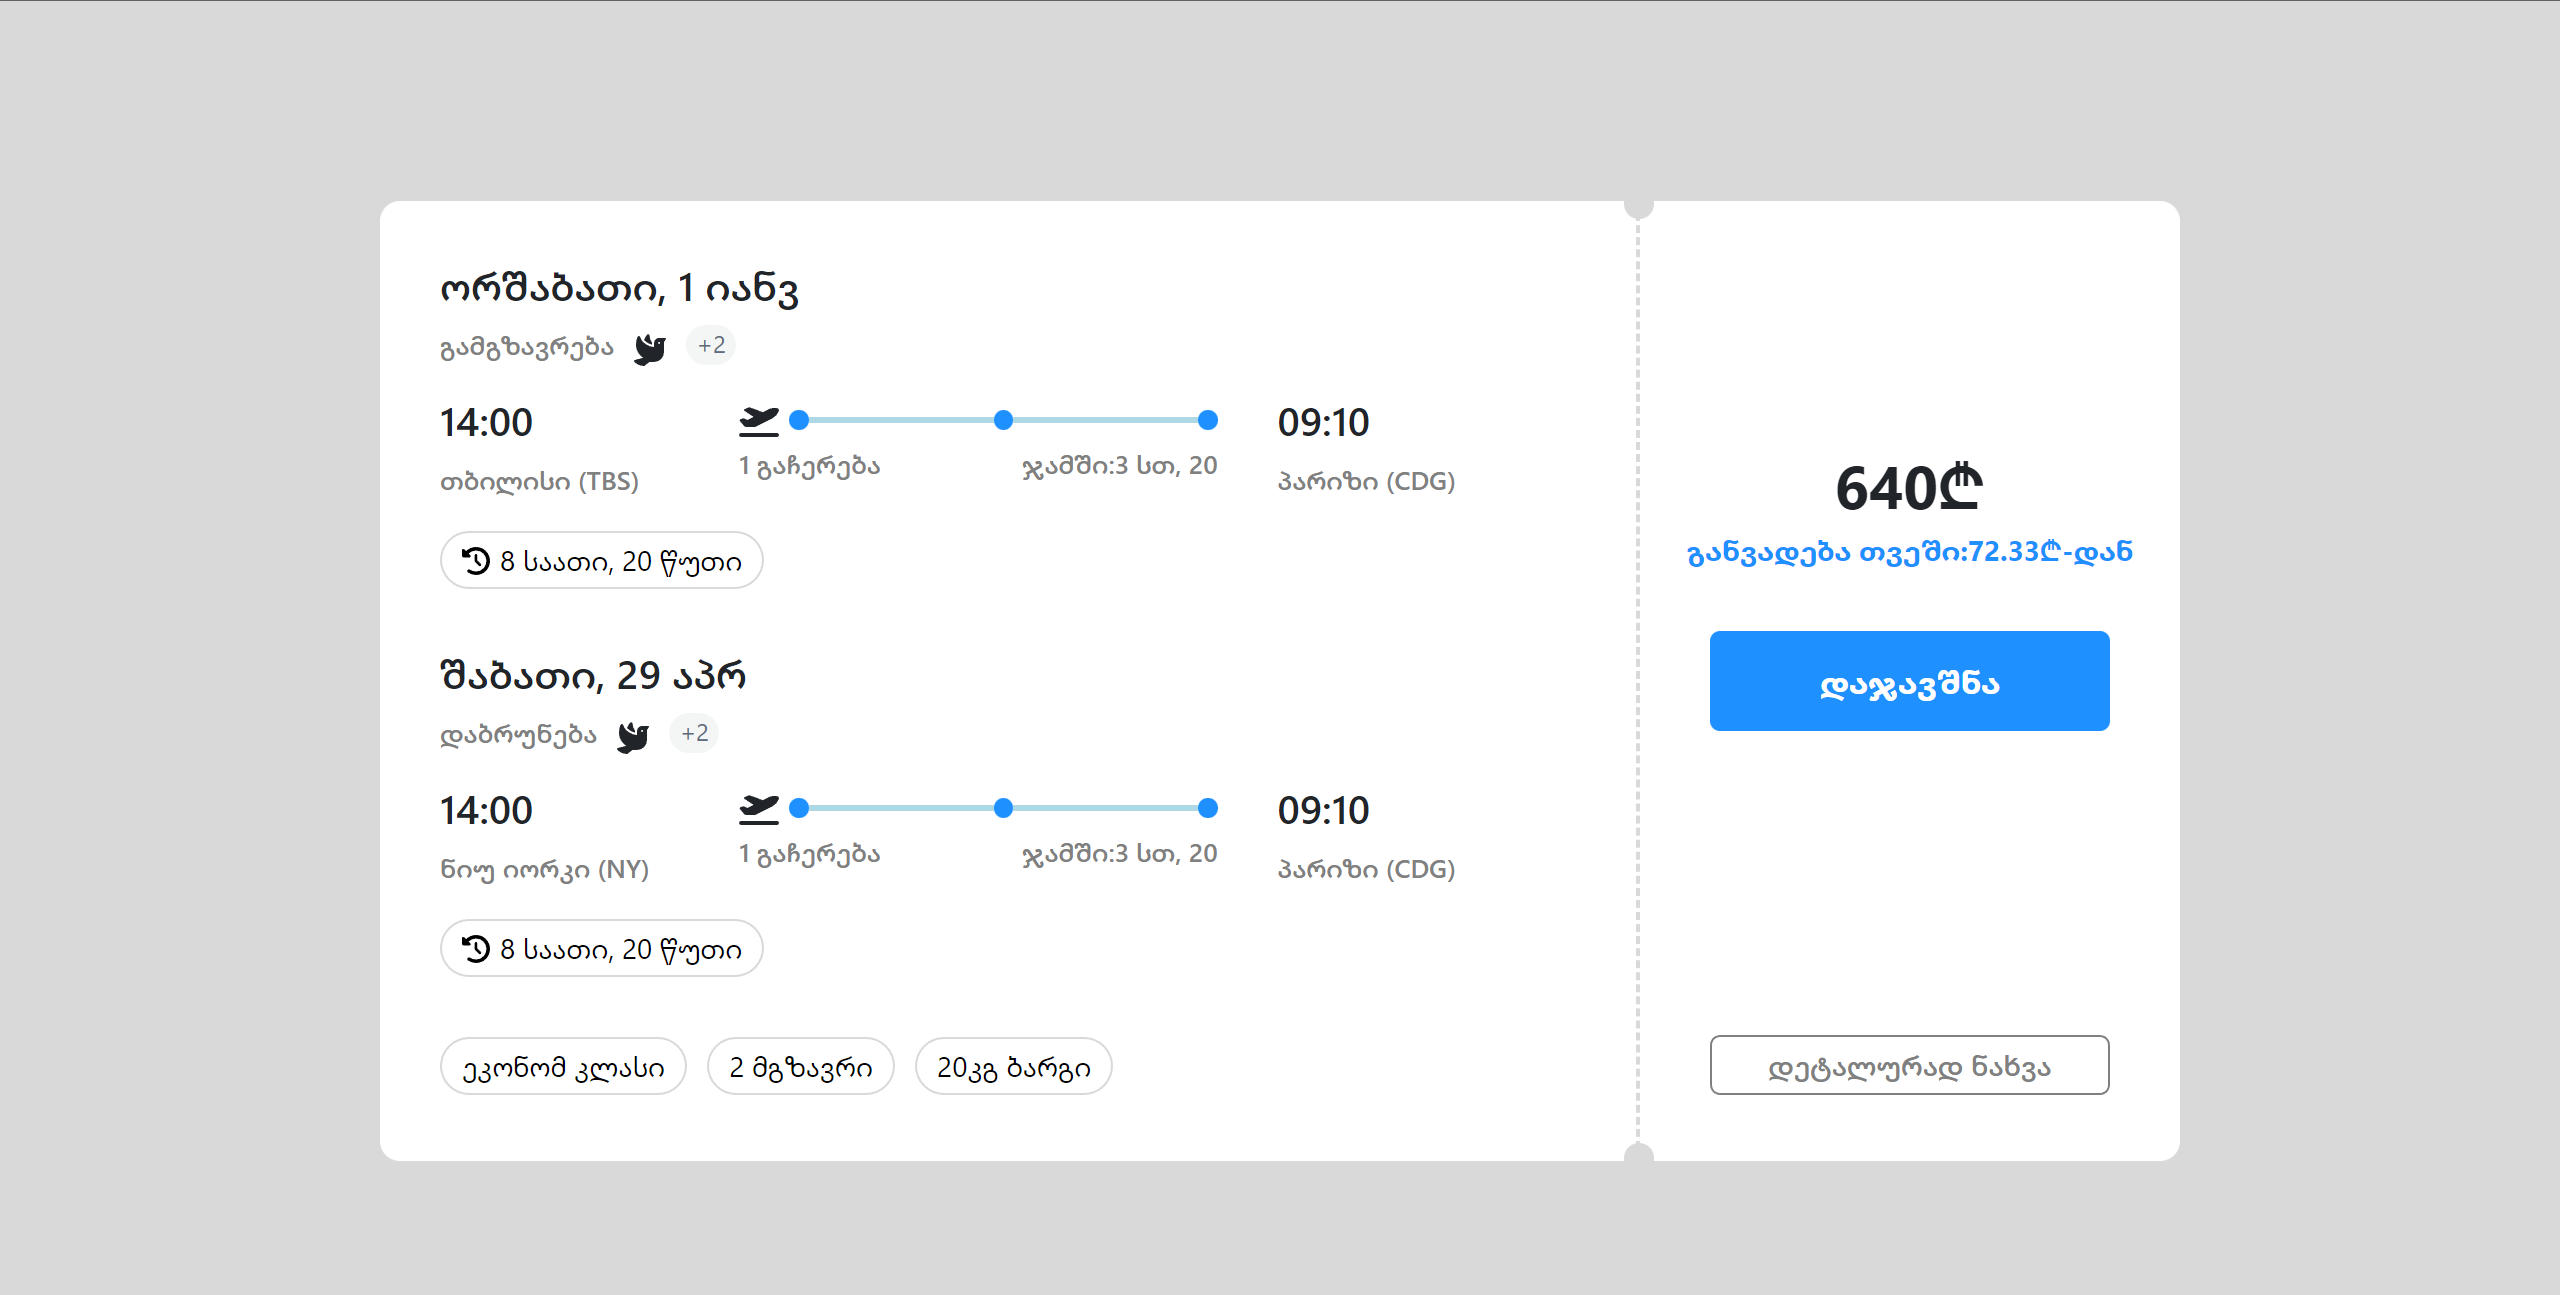
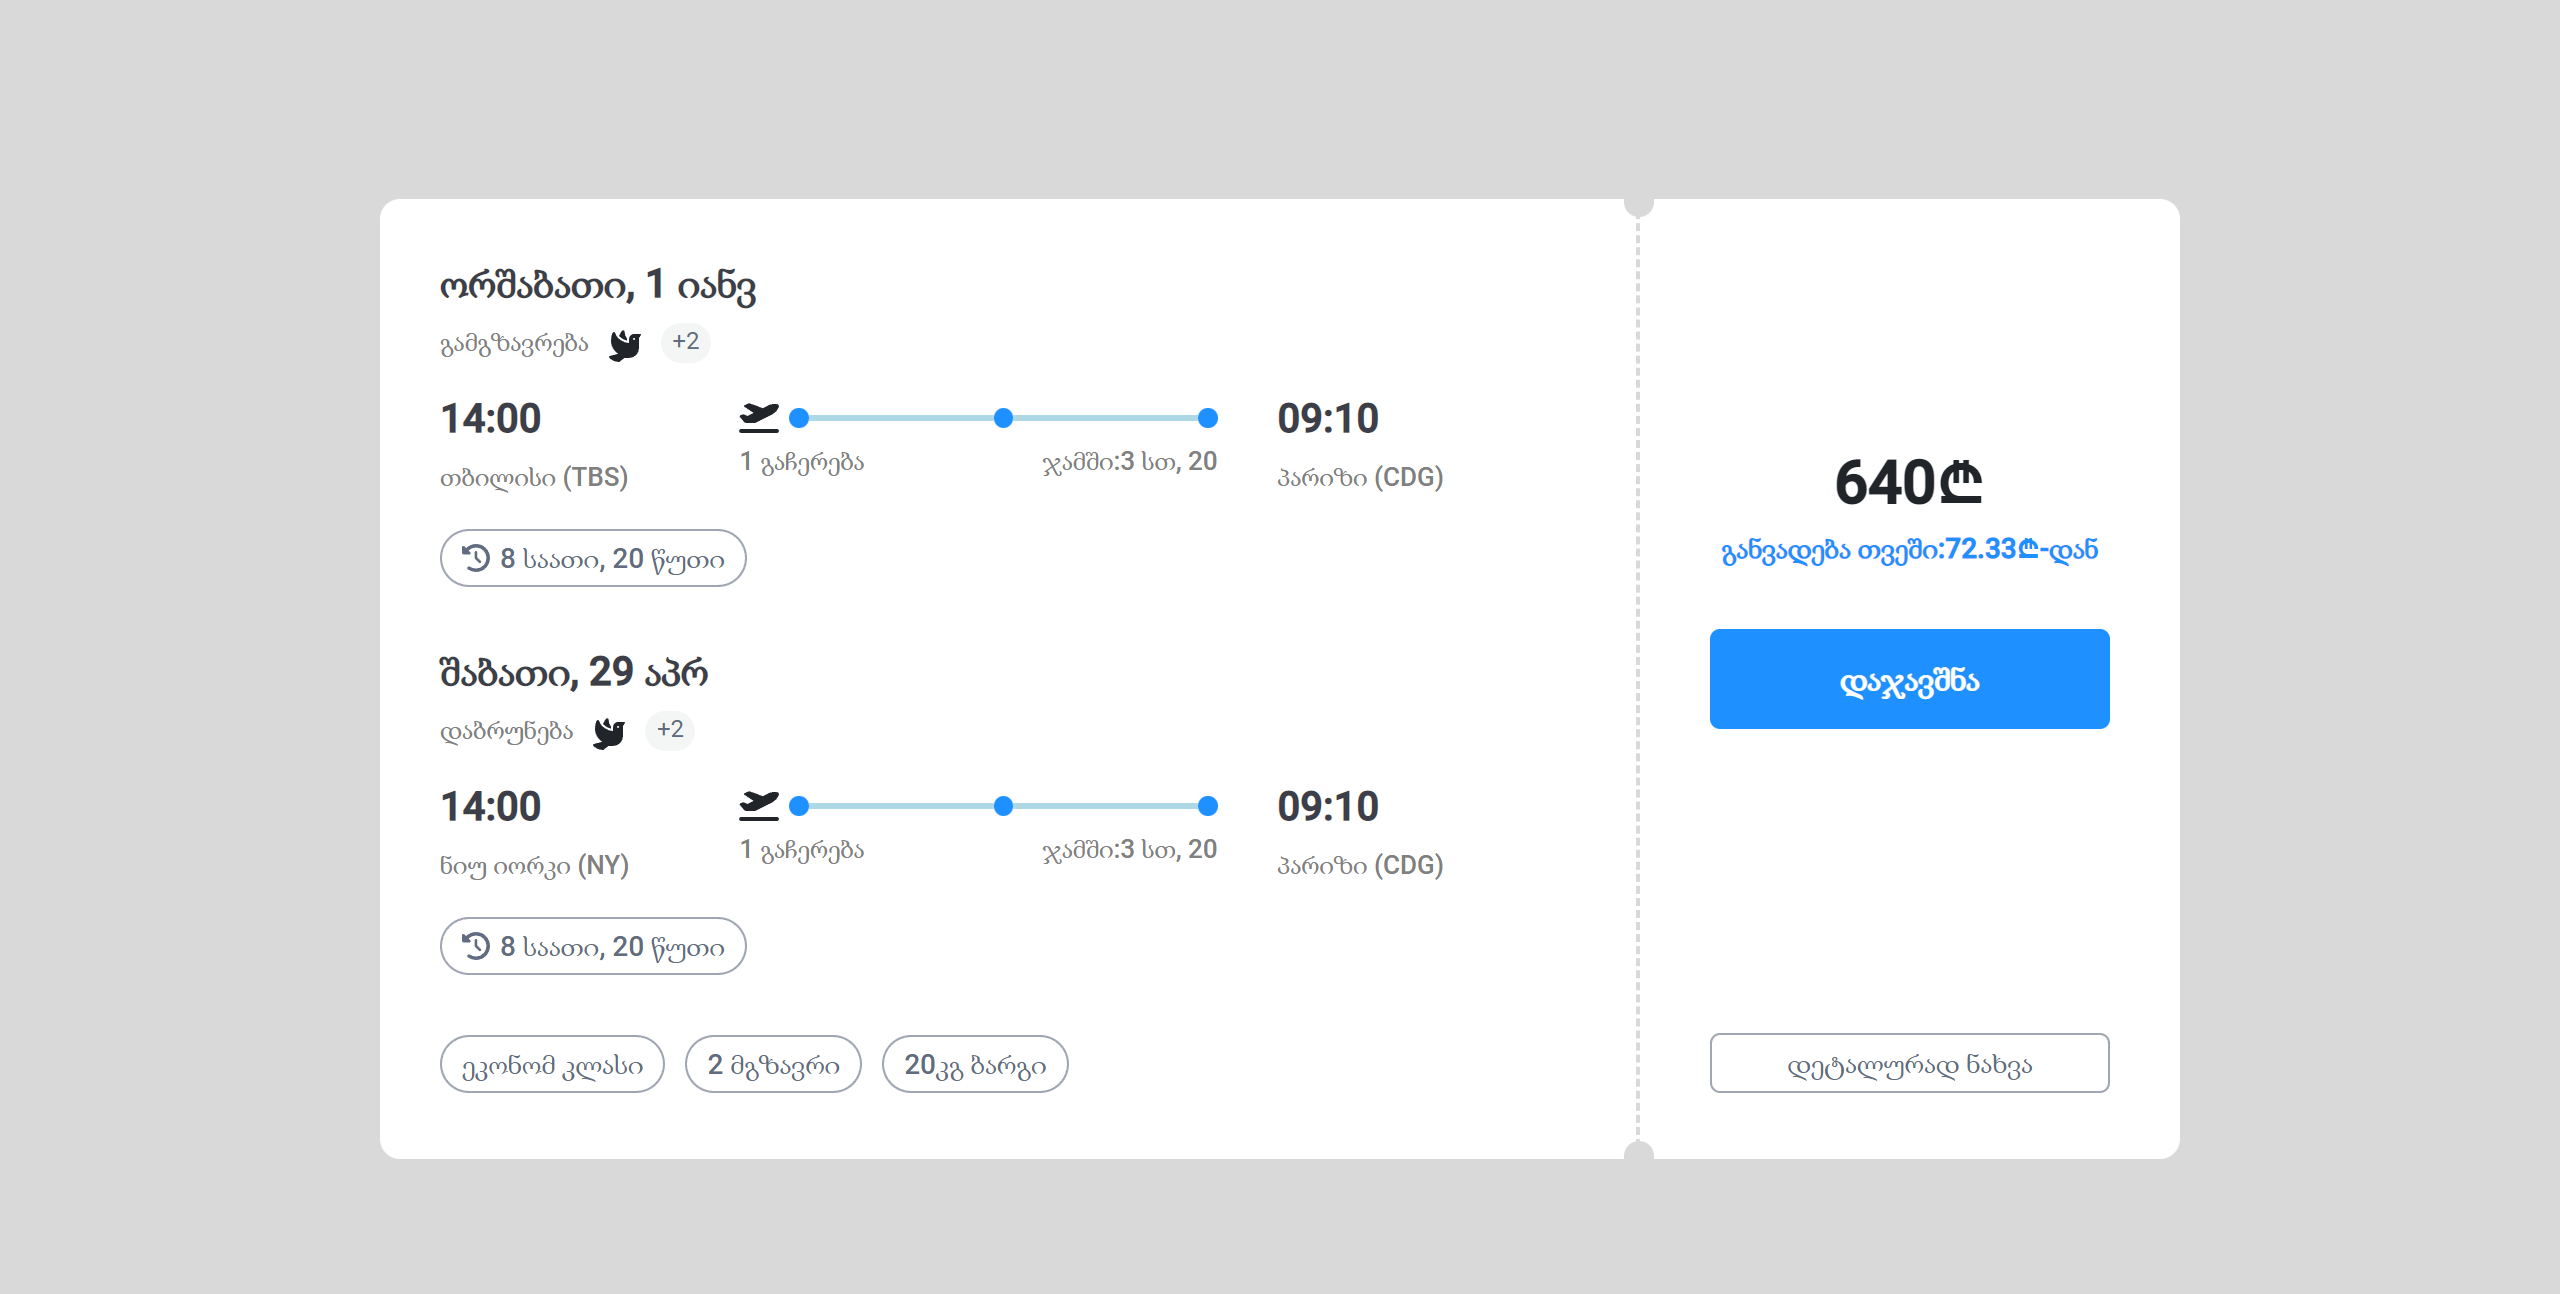
updated images

diff --git a/src/app/ticket-mobile/ticket-mobile.component.scss b/src/app/ticket-mobile/ticket-mobile.component.scss
@@ -80,13 +80,13 @@
 }
 .reserve-text {
   color: dodgerblue;
-  font-weight: 500;
+  font-weight: 700;
   font-size: 14px;
 }
 .details {
   background-color: white;
   border: none;
-  font-weight: 500;
+  font-weight: 600;
   font-size: 16px;
   color: dodgerblue;
 }
